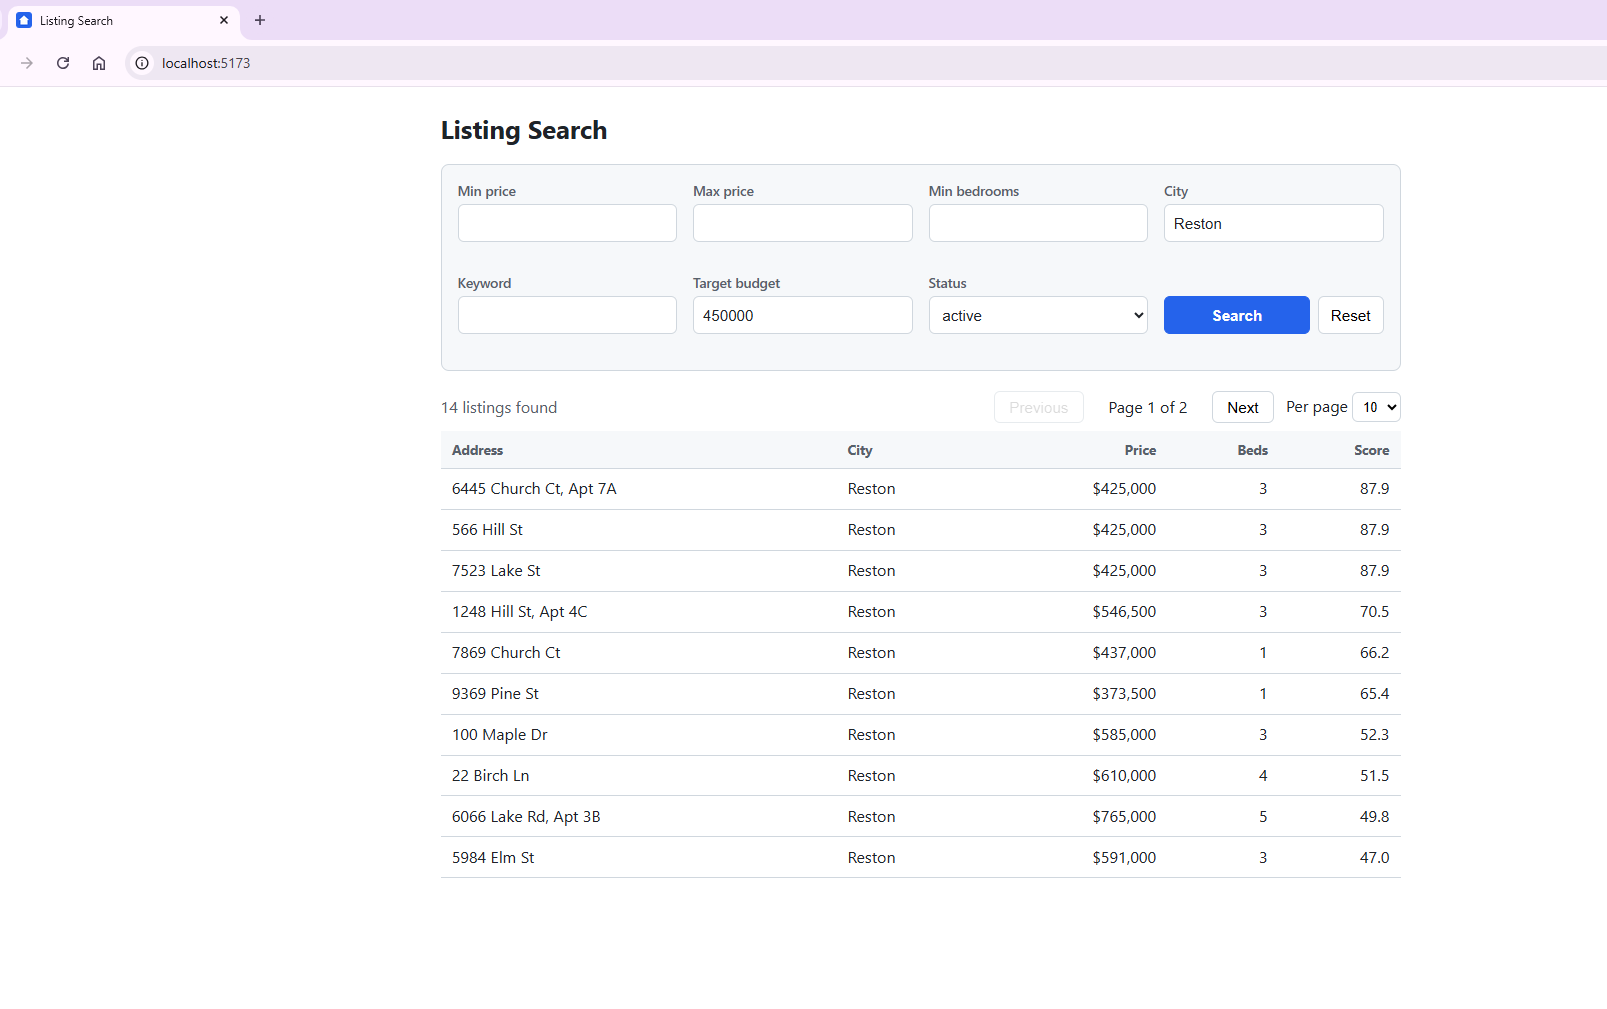
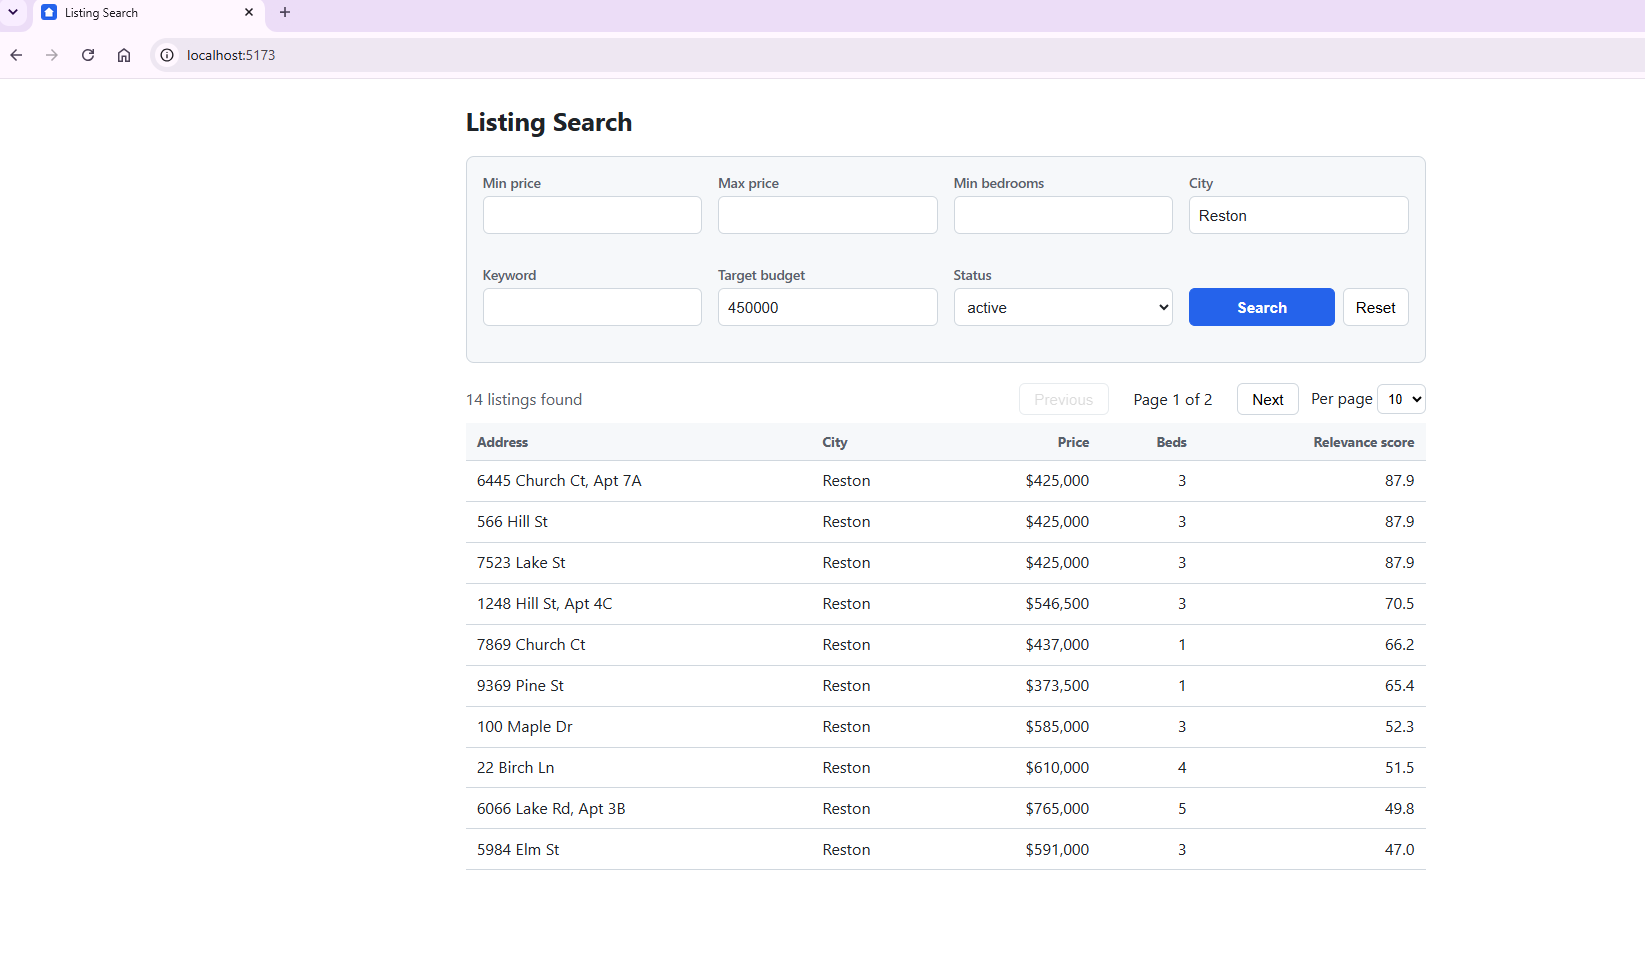
Add README and screenshots, rename score column to relevance score

diff --git a/frontend/src/components/ResultsTable.tsx b/frontend/src/components/ResultsTable.tsx
@@ -19,7 +19,7 @@ export default function ResultsTable({items}: Props) {
                 <th>City</th>
                 <th className="num">Price</th>
                 <th className="num">Beds</th>
-                <th className="num">Score</th>
+                <th className="num">Relevance score</th>
             </tr>
             </thead>
             <tbody>

diff --git a/README.md b/README.md
@@ -1,0 +1,222 @@
+# Listing Search
+
+A small full-stack app that searches real-estate listings, scores them and shows them page by page.
+The back end is Java 17 and Spring Boot with JPA and Flyway. It runs on an in-memory H2 database by
+default and on Oracle with a profile. The front end is React and TypeScript.
+
+![Search results](docs/search-results.png)
+![Live validation](docs/validation-error.png)
+
+## What you need
+
+- Java 17
+- Node (developed on v24)
+- Nothing else for the default run. Maven is included through the wrapper (`mvnw`), and the H2
+  database is in memory.
+- Only if you want to run against Oracle: an Oracle database you can reach (I used Oracle Database
+  Free on my own machine), and an admin login to run the setup script once. See "Use Oracle instead
+  of H2" below.
+
+## Run it
+
+Commands are for Windows PowerShell. In Command Prompt, drop the `.\` in front of `mvnw.cmd`. On Mac
+or Linux use `./mvnw` instead.
+
+**Back end** (http://localhost:8080)
+
+```
+cd backend
+.\mvnw.cmd spring-boot:run
+```
+
+On startup the loader reads two files and inserts the listings: the supplied `sample_listings.json`
+(12 rows) and a generated `demo_listings.json` (152 rows), so there is enough data to page through.
+The H2 console is at http://localhost:8080/h2-console (JDBC URL `jdbc:h2:mem:listings`, user `sa`,
+empty password).
+
+**Front end** (http://localhost:5173)
+
+```
+cd frontend
+npm install
+npm run dev
+```
+
+The dev server forwards `/api` to the back end on port 8080, so start the back end first.
+
+**Tests**
+
+```
+cd backend
+.\mvnw.cmd test
+
+cd frontend
+npm test
+```
+
+All back-end tests run on in-memory H2, whatever profile is set. The front-end tests cover the form
+validation rules (Vitest).
+
+## Use Oracle instead of H2
+
+This needs an Oracle database that is already installed and running. The app does not create one.
+The same code and the same Flyway script run on both databases. Only the datasource changes.
+
+1. Connect to your pluggable database as an admin user and run `scripts/oracle-setup.sql`. It creates
+   a `listings` user. Put your own password in the script first.
+2. Set the password as an environment variable. It is never stored in a file:
+   `setx LISTINGS_DB_PASSWORD "your-password"` (then open a new terminal).
+3. Check the URL in `backend/src/main/resources/application-oracle.properties`. It assumes
+   `localhost:1521/FREEPDB1`. Change the service name if yours is different.
+4. Start with the profile:
+   `.\mvnw.cmd spring-boot:run "-Dspring-boot.run.profiles=oracle"`
+
+Flyway creates the table on first start. Hibernate only validates it. Restarting is safe, because the
+loader adds only the listings that are not already there.
+
+## Data
+
+- `sample_listings.json` is the file that came with the exercise. I did not change it.
+- `demo_listings.json` is generated by `node scripts/generate-demo-data.mjs` (run from the project
+  root). It uses a fixed seed, so the same file comes out each time. It has 8 cities, all three
+  statuses, near-duplicate listings reported by a second feed, "pets allowed" and "no pets" wording,
+  and a few groups with identical price and date to exercise tie-breaking. Running it again is
+  optional.
+- Which files load is set by one property, `listings.data-files`. To load only the sample file:
+  `--listings.data-files=classpath:data/sample_listings.json`.
+- To add listings, add them to a JSON file and restart. The loader inserts only new rows. It never
+  deletes anything, so on Oracle, drop the schema (last line of the setup script) to start clean.
+
+## API
+
+`GET /api/listings/search`
+
+| Parameter | Meaning | Rule |
+|---|---|---|
+| `minPrice`, `maxPrice` | price range | 0 or more. `minPrice` must not exceed `maxPrice` |
+| `minBedrooms` | minimum bedrooms | 0 or more |
+| `city` | city name | exact match, ignoring case and surrounding spaces |
+| `keyword` | word in the description | whole-word match, ignoring case |
+| `targetBudget` | price the user has in mind | greater than 0. Used for scoring only, not as a filter |
+| `status` | `active`, `pending` or `sold` | defaults to `active` |
+| `page` | page number | 1 or more, default 1 |
+| `pageSize` | rows per page | 1 to 50, default 10 |
+
+The response has `items`, `page`, `pageSize`, `totalItems`, `totalPages` and `message`. Each item has
+`id`, `source`, `address`, `city`, `state`, `zip`, `price`, `bedrooms`, `bathrooms`, `sqft`,
+`listedDate`, `status` and `score`.
+
+The `score` field is the relevance score shown in the results table.
+
+Bad input returns `400` with a ProblemDetail body and an `errors` list of `{field, message}`. A value
+that is not a number gives "must be a number". A search with no results returns `200` with an empty
+list and a `message`: "No listings in X" if the city does not exist at all, otherwise "No listings
+match your search". A page past the last one returns `200`, no items, the right totals and a message.
+
+### Assumptions
+
+- The `id` in a response is the id from the feed. It is only unique together with `source`.
+- Blank `city` and `keyword` values mean "no filter".
+- `sold` and `pending` listings are left out unless you ask for them, because `status` defaults to
+  `active`.
+- A listing dated in the future counts as posted today.
+- Scores are rounded to two decimals only when the response is built.
+
+## Scoring
+
+Every listing that passes the filters gets a relevance score from 0 to 100. The filters decide which
+listings you see. The score only decides the order, best first.
+
+The score has two parts:
+
+- **Price fit** is how close the price is to your target budget. A listing at your target gets 1.
+  The further away the price is, the lower it gets, and at twice the target it gets 0. It is
+  measured against the target, so being $20,000 away matters more on a $200,000 budget than on a
+  $1,000,000 one.
+- **Freshness** is how recently the listing was posted. Posted today gets 1. The value halves every
+  45 days, so a listing that is 45 days old gets 0.5 and one that is 90 days old gets 0.25.
+
+If you give a target budget, the score is 60% price fit and 40% freshness. If you don't, there is
+nothing to compare the price with, so the score is freshness only.
+
+    score     = 100 x (0.6 x priceFit + 0.4 x freshness)
+    priceFit  = max(0, 1 - |price - target| / target)
+    freshness = 0.5 ^ (ageInDays / 45)
+
+Example with a target of $400,000:
+
+| Listing | Price    | Posted      | Price fit | Freshness | Score |
+|---------|----------|-------------|-----------|-----------|-------|
+| A       | $400,000 | 90 days ago | 1.0       | 0.25      | 70    |
+| B       | $440,000 | today       | 0.9       | 1.0       | 94    |
+
+B comes first. It is a little over budget but new, and A is exactly on budget but old.
+
+I weighted price fit higher because the user typed the budget. Freshness stops old listings from
+ranking high just because the price is right.
+
+The weights and the half-life are not hard-coded. They are set in
+`backend/src/main/resources/application.properties`:
+
+    search.scoring.budget-weight=0.6
+    search.scoring.recency-weight=0.4
+    search.scoring.half-life-days=45
+
+Change a value and restart to change the ranking. There is no code change. The two weights should
+add up to 1. The code does not check that.
+
+If two listings have the same score, the newer one comes first, then the cheaper one, then the one
+with the lower source and id. The order is the same every time, so a row never shows up on two pages
+or gets skipped.
+
+Age is counted from an injected clock, so the tests give the same result on any day. A listing dated
+in the future counts as posted today.
+
+## How a search runs
+
+1. The database filters on status, price, bedrooms, city and, for the keyword, `LIKE`. The indexes
+   on price and listed date help the range filters. The city match uses `LOWER(city)`, so it would
+   need an index on that expression to use an index at all, and the keyword `LIKE` scans the
+   descriptions of the rows the other filters leave.
+2. Java keeps only the rows where the keyword is a whole word ("pet" does not match "carpet").
+3. Java scores and sorts the rows.
+4. Java cuts out the requested page and builds the response.
+
+## Trade-offs
+
+- **City must match exactly.** "Rest" will not find "Reston". Spaces and capital letters are ignored.
+- **Scoring and paging are done in Java.** The database filters the rows, then Java scores, sorts and
+  pages them. That keeps the scoring formula in one place and easy to test. The cost is that every
+  matching row is loaded into memory for each search. That is fine for this data and should be fine
+  for thousands of rows. I did not test with more. For a very large table I would move scoring and
+  paging into SQL, but then the formula would live in two places.
+- **The keyword is checked twice.** The database `LIKE` is a cheap first pass, but it would match
+  "pet" inside "carpet". So Java then keeps only the rows where the keyword is a whole word.
+- **"pets" also matches "no pets".** The check only looks for the word, not for what is around it.
+- **Duplicate listings are not merged.** If two feeds report the same flat, both appear as separate
+  rows.
+- **The rules are checked twice.** The form checks as you type, and the API checks the same rules
+  again. The API is the one that counts, because anyone can call it directly. If a rule changes, it
+  has to change in both places.
+
+## What I would do next
+
+- Merge duplicate listings from different feeds. Compare the address (after tidying "St" and "Street",
+  "Apt" and "Unit"), the city and the state, and keep the earlier or the cheaper one.
+- Make the keyword smarter, so "no pets" does not count as a match for "pets".
+- Add a score for distance, using the latitude and longitude already in the data.
+- Add sort options.
+- Check at startup that the two scoring weights add up to 1.
+- Add a function-based index on `LOWER(city)` in a new Flyway script (V2), so the city filter can
+  use an index on Oracle.
+- Use Oracle Text for keyword search if the table gets large.
+- Add a browser test with Playwright.
+
+## Project layout
+
+```
+backend/    Spring Boot API (packages: listing, load, search, scoring, config, web)
+frontend/   React and TypeScript page (api, types, components, validation)
+scripts/    demo data generator and Oracle setup script
+docs/       screenshots used in this README
+```
